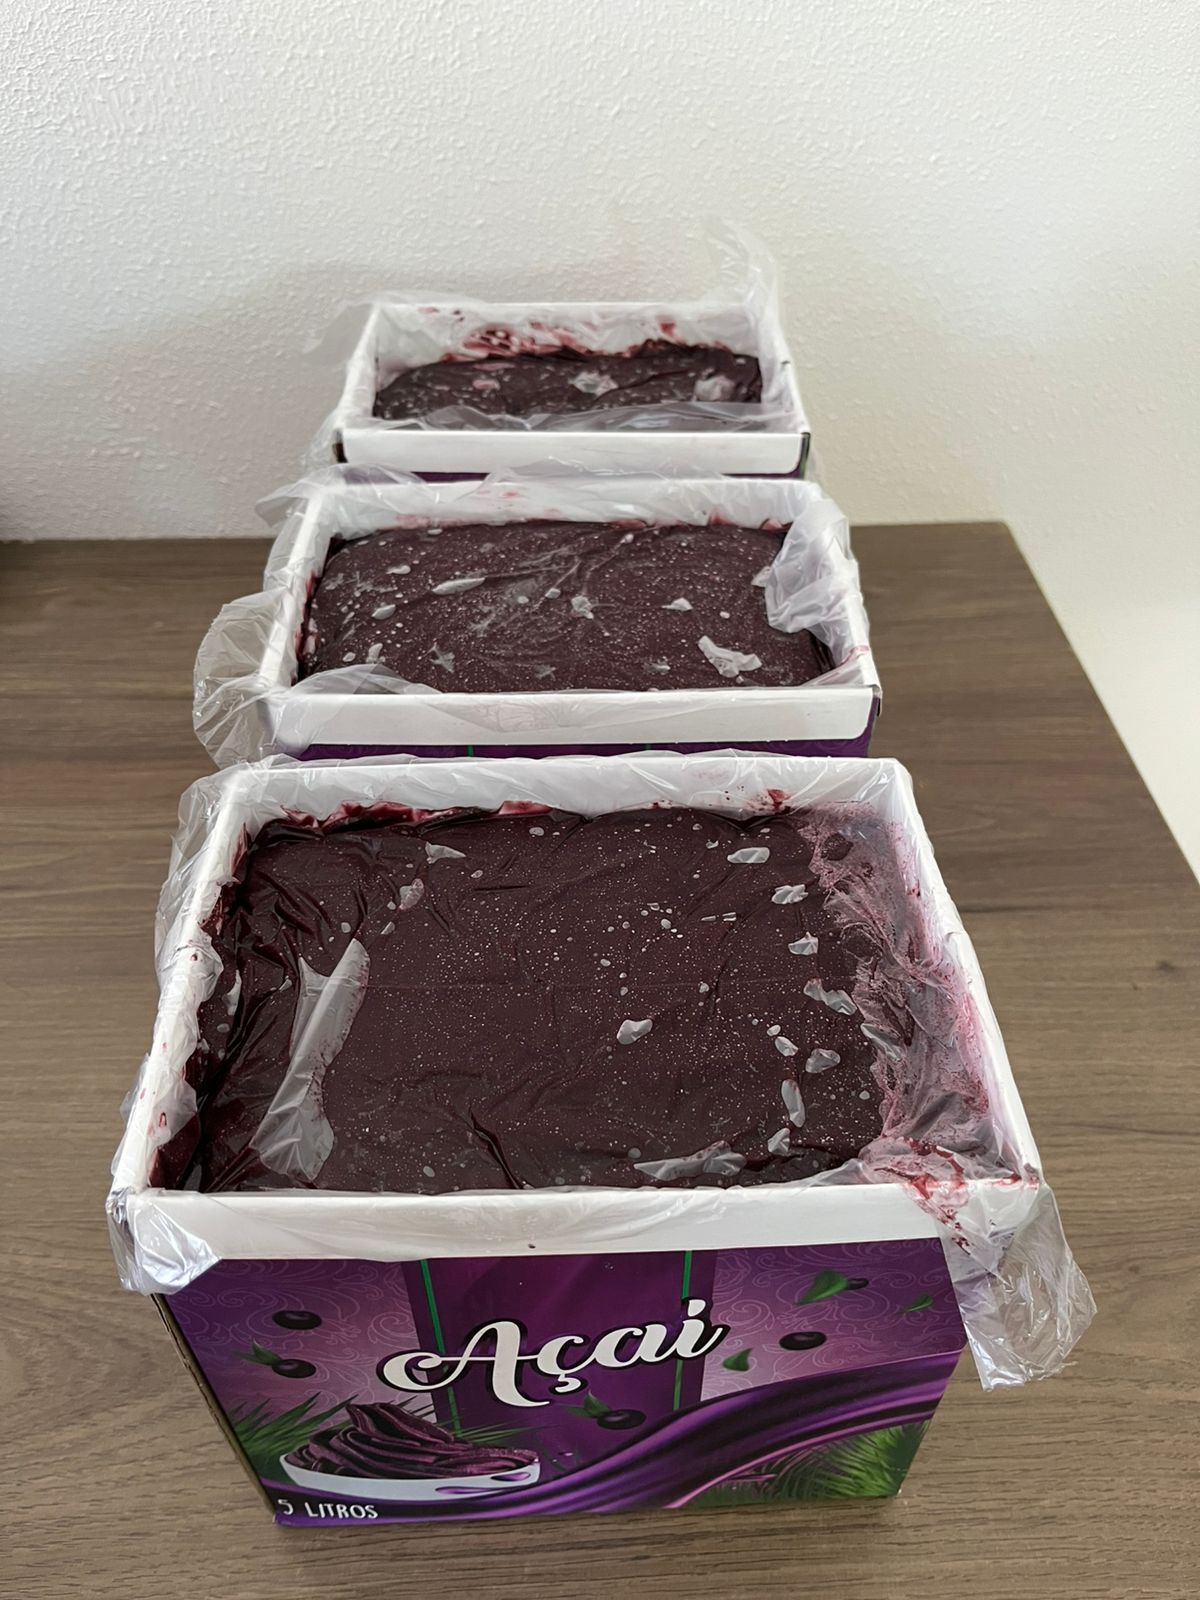
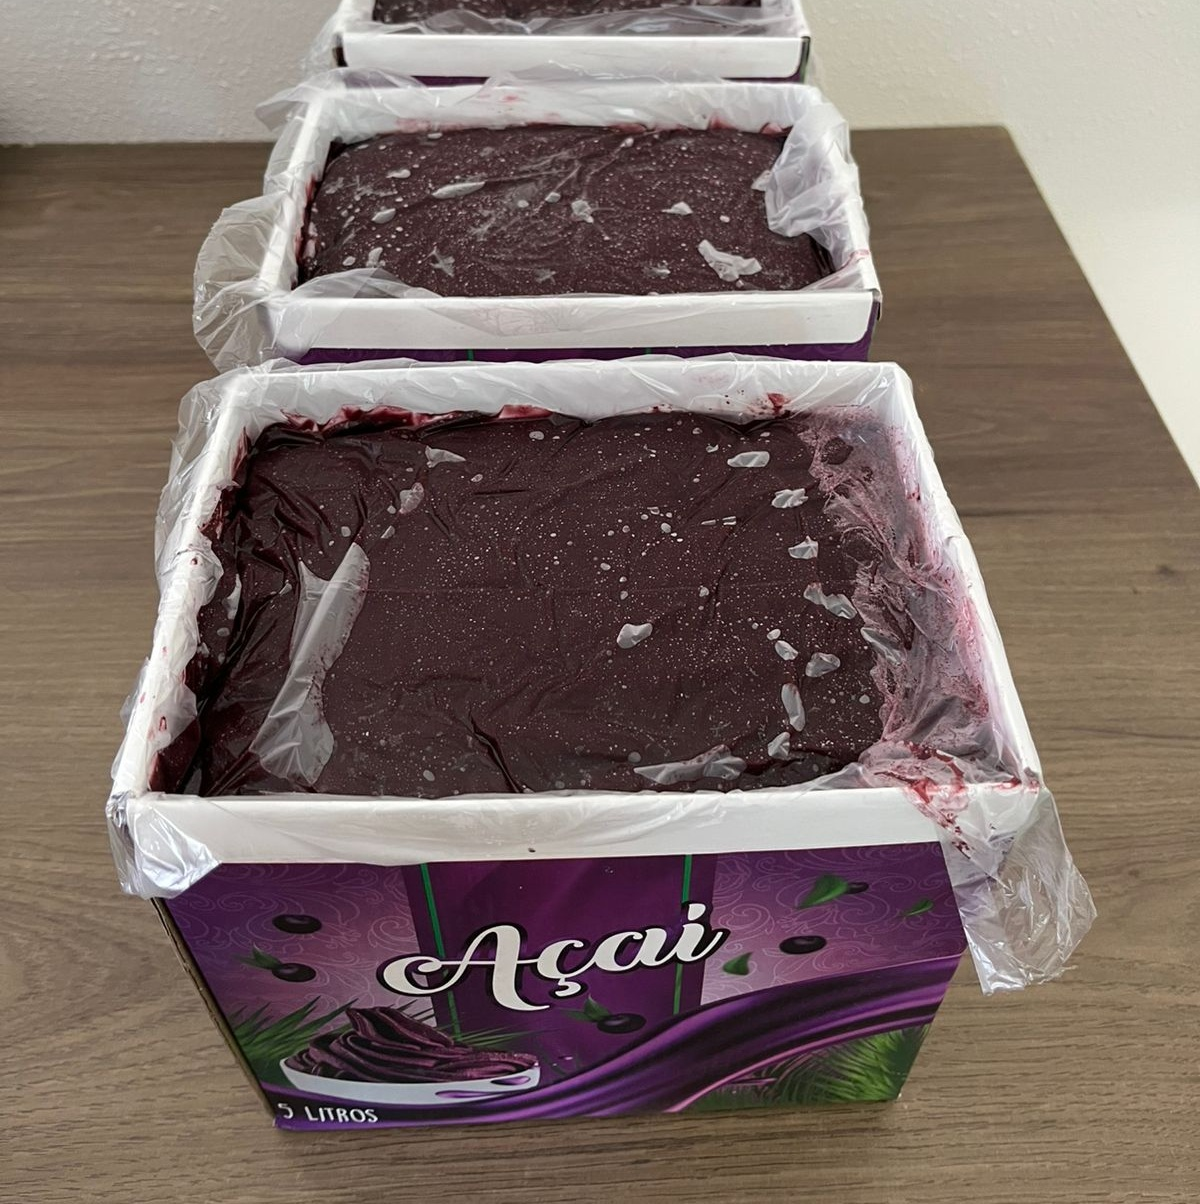
feat: atualizar imagens e legendas na configuração do site

diff --git a/src/components/Proof/OperationalProof.tsx b/src/components/Proof/OperationalProof.tsx
@@ -1,136 +1,175 @@
-"use client"
+"use client";
 
-import React, { useEffect, useState } from 'react'
-import Box from '@mui/material/Box'
-import Container from '@mui/material/Container'
-import Typography from '@mui/material/Typography'
-import Grid from '@mui/material/Grid'
-import Dialog from '@mui/material/Dialog'
-import DialogContent from '@mui/material/DialogContent'
-import IconButton from '@mui/material/IconButton'
-import Button from '@mui/material/Button'
-import Skeleton from '@mui/material/Skeleton'
-import Image from 'next/image'
-import { siteConfig } from '@/config/siteConfig'
+import React, { useEffect, useState } from "react";
+import Box from "@mui/material/Box";
+import Container from "@mui/material/Container";
+import Typography from "@mui/material/Typography";
+import Grid from "@mui/material/Grid";
+import Dialog from "@mui/material/Dialog";
+import DialogContent from "@mui/material/DialogContent";
+import IconButton from "@mui/material/IconButton";
+import Button from "@mui/material/Button";
+import Skeleton from "@mui/material/Skeleton";
+import Image from "next/image";
+import { siteConfig } from "@/config/siteConfig";
 
 export function OperationalProof() {
-  const images = siteConfig.proof?.images ?? []
-  const captions = siteConfig.proof?.captions ?? []
-  const metrics = siteConfig.proof?.metrics ?? []
+    const images = siteConfig.proof?.images ?? [];
+    const captions = siteConfig.proof?.captions ?? [];
+    const metrics = siteConfig.proof?.metrics ?? [];
 
-  const [open, setOpen] = useState(false)
-  const [index, setIndex] = useState(0)
-  const [loaded, setLoaded] = useState(false)
+    const [open, setOpen] = useState(false);
+    const [index, setIndex] = useState(0);
+    const [loaded, setLoaded] = useState(false);
 
-  function openAt(i: number) {
-    setIndex(i)
-    setLoaded(false)
-    setOpen(true)
-  }
-
-  function prev() {
-    setLoaded(false)
-    setIndex((i) => (i - 1 + images.length) % images.length)
-  }
-
-  function next() {
-    setLoaded(false)
-    setIndex((i) => (i + 1) % images.length)
-  }
-
-  useEffect(() => {
-    if (!open) return
-    function onKey(e: KeyboardEvent) {
-      if (e.key === 'Escape') setOpen(false)
-      if (e.key === 'ArrowLeft') prev()
-      if (e.key === 'ArrowRight') next()
+    function openAt(i: number) {
+        setIndex(i);
+        setLoaded(false);
+        setOpen(true);
     }
-    window.addEventListener('keydown', onKey)
-    return () => window.removeEventListener('keydown', onKey)
-  }, [open, images.length])
 
-  return (
-    <Box id="prova-operacional" sx={{ py: { xs: 6, md: 10 }, background: siteConfig.colors.surface }}>
-      <Container maxWidth="lg">
-        <Box sx={{ textAlign: 'center', mb: 3 }}>
-          <Typography variant="overline" sx={{ color: siteConfig.colors.primary, fontWeight: 700, letterSpacing: '0.08em' }}>
-            {siteConfig.proof?.overline}
-          </Typography>
+    function prev() {
+        setLoaded(false);
+        setIndex((i) => (i - 1 + images.length) % images.length);
+    }
 
-          <Typography variant="h3" sx={{ color: siteConfig.colors.text, mt: 1, mb: 1 }}>
-            {siteConfig.proof?.title}
-          </Typography>
+    function next() {
+        setLoaded(false);
+        setIndex((i) => (i + 1) % images.length);
+    }
 
-          <Typography variant="body1" sx={{ color: siteConfig.colors.text, opacity: 0.8 }}>
-            {siteConfig.proof?.subtitle}
-          </Typography>
+    useEffect(() => {
+        if (!open) return;
+        function onKey(e: KeyboardEvent) {
+            if (e.key === "Escape") setOpen(false);
+            if (e.key === "ArrowLeft") prev();
+            if (e.key === "ArrowRight") next();
+        }
+        window.addEventListener("keydown", onKey);
+        return () => window.removeEventListener("keydown", onKey);
+    }, [open, images.length]);
+
+    return (
+        <Box id="prova-operacional" sx={{ py: { xs: 6, md: 10 }, background: siteConfig.colors.surface }}>
+            <Container maxWidth="lg">
+                <Box sx={{ textAlign: "center", mb: 3 }}>
+                    <Typography variant="overline" sx={{ color: siteConfig.colors.primary, fontWeight: 700, letterSpacing: "0.08em" }}>
+                        {siteConfig.proof?.overline}
+                    </Typography>
+
+                    <Typography variant="h3" sx={{ color: siteConfig.colors.text, mt: 1, mb: 1 }}>
+                        {siteConfig.proof?.title}
+                    </Typography>
+
+                    <Typography variant="body1" sx={{ color: siteConfig.colors.text, opacity: 0.8 }}>
+                        {siteConfig.proof?.subtitle}
+                    </Typography>
+                </Box>
+
+                <Grid container spacing={2} sx={{ mb: 3 }} width="100%">
+                    {images.map((src, i) => (
+                        <Grid key={src} size={{ xs: 6, sm: 4, md: 4 }} width="100%">
+                            <Box
+                                onClick={() => openAt(i)}
+                                sx={{
+                                    cursor: "pointer",
+                                    position: "relative",
+                                    width: "100%",
+                                    borderRadius: 1,
+                                    overflow: "hidden",
+                                    border: `1px solid rgba(0,0,0,0.06)`,
+                                    aspectRatio: "4 / 3"
+                                }}
+                            >
+                                <Image
+                                    src={src}
+                                    alt={captions[i] ?? `Prova ${i + 1}`}
+                                    fill
+                                    sizes="(max-width:600px)50vw,33vw"
+                                    loading="lazy"
+                                    style={{ objectFit: "cover", aspectRatio: "4 / 3" }}                                    
+                                />
+                                {captions[i] && (
+                                    <Box
+                                        sx={{
+                                            position: "absolute",
+                                            left: 0,
+                                            right: 0,
+                                            bottom: 0,
+                                            p: "6px 8px",
+                                            background: "rgba(0,0,0,0.45)",
+                                            color: "#fff",
+                                            fontSize: "0.75rem",
+                                        }}
+                                    >
+                                        {captions[i]}
+                                    </Box>
+                                )}
+                            </Box>
+                            <Grid className="metric-index" size={{ xs: 12 }} sx={{ mt: 3 }}>
+                                <Box sx={{ textAlign: "center" }}>
+                                    <Typography variant="h4" sx={{ color: siteConfig.colors.primary, fontWeight: 800 }}>
+                                        {metrics[i]?.value}
+                                    </Typography>
+                                    <Typography variant="body2" sx={{ color: siteConfig.colors.text, opacity: 0.85 }}>
+                                        {metrics[i]?.label}
+                                    </Typography>
+                                </Box>
+                            </Grid>
+                        </Grid>
+                    ))}
+                </Grid>
+
+                <Box sx={{ textAlign: "center", mt: 2 }}>
+                    <Button variant="outlined" href={siteConfig.nav.catalogoHref} sx={{ textTransform: "none" }}>
+                        {siteConfig.hero.ctaSecondaryText ?? "Ver catálogo"}
+                    </Button>
+                </Box>
+            </Container>
+
+            <Dialog open={open} onClose={() => setOpen(false)} maxWidth="lg" fullWidth>
+                <DialogContent sx={{ position: "relative", p: 0, background: "#000" }}>
+                    <Box sx={{ position: "relative", width: "100%", height: { xs: "60vh", md: "80vh" }, bgcolor: "#000" }}>
+                        {!loaded && <Skeleton variant="rectangular" sx={{ width: "100%", height: "100%" }} />}
+                        {images[index] && (
+                            <Image
+                                src={images[index]}
+                                alt={captions[index] ?? `Prova ${index + 1}`}
+                                fill
+                                sizes="100vw"
+                                onLoadingComplete={() => setLoaded(true)}
+                                style={{ objectFit: "contain" }}
+                            />
+                        )}
+                    </Box>
+
+                    {captions[index] && (
+                        <Box sx={{ p: 2, background: "#000", borderTop: "1px solid rgba(255,255,255,0.06)" }}>
+                            <Typography variant="body2" sx={{ color: "#fff", opacity: 0.92, textAlign: "center" }}>
+                                {captions[index]}
+                            </Typography>
+                        </Box>
+                    )}
+
+                    <IconButton
+                        aria-label="previous"
+                        onClick={prev}
+                        sx={{ position: "absolute", left: 8, top: "50%", transform: "translateY(-50%)", color: "#fff" }}
+                    >
+                        ‹
+                    </IconButton>
+                    <IconButton
+                        aria-label="next"
+                        onClick={next}
+                        sx={{ position: "absolute", right: 8, top: "50%", transform: "translateY(-50%)", color: "#fff" }}
+                    >
+                        ›
+                    </IconButton>
+                    <IconButton aria-label="close" onClick={() => setOpen(false)} sx={{ position: "absolute", right: 8, top: 8, color: "#fff" }}>
+                        ✕
+                    </IconButton>
+                </DialogContent>
+            </Dialog>
         </Box>
-
-        <Grid container spacing={2} sx={{ mb: 3 }}>
-          {images.map((src, i) => (
-            <Grid key={src} size={{ xs: 6, sm: 4, md: 3 }}>
-              <Box onClick={() => openAt(i)} sx={{ cursor: 'pointer', position: 'relative', width: '100%', height: { xs: 140, sm: 160, md: 180 }, borderRadius: 1, overflow: 'hidden', border: `1px solid rgba(0,0,0,0.06)` }}>
-                <Image src={src} alt={captions[i] ?? `Prova ${i + 1}`} fill sizes="(max-width:600px)50vw,33vw" loading="lazy" style={{ objectFit: 'cover' }} />
-                {captions[i] && (
-                  <Box sx={{ position: 'absolute', left: 0, right: 0, bottom: 0, p: '6px 8px', background: 'rgba(0,0,0,0.45)', color: '#fff', fontSize: '0.75rem' }}>
-                    {captions[i]}
-                  </Box>
-                )}
-              </Box>
-            </Grid>
-          ))}
-        </Grid>
-
-        <Grid container spacing={2} sx={{ mb: 2 }}>
-          {metrics.map((m, idx) => (
-            <Grid key={idx} size={{ xs: 12, sm: 4 }}>
-              <Box sx={{ textAlign: 'center' }}>
-                <Typography variant="h4" sx={{ color: siteConfig.colors.primary, fontWeight: 800 }}>
-                  {m.value}
-                </Typography>
-                <Typography variant="body2" sx={{ color: siteConfig.colors.text, opacity: 0.85 }}>
-                  {m.label}
-                </Typography>
-              </Box>
-            </Grid>
-          ))}
-        </Grid>
-
-        <Box sx={{ textAlign: 'center', mt: 2 }}>
-          <Button variant="outlined" href={siteConfig.nav.catalogoHref} sx={{ textTransform: 'none' }}>
-            {siteConfig.hero.ctaSecondaryText ?? 'Ver catálogo'}
-          </Button>
-        </Box>
-      </Container>
-
-      <Dialog open={open} onClose={() => setOpen(false)} maxWidth="lg" fullWidth>
-        <DialogContent sx={{ position: 'relative', p: 0, background: '#000' }}>
-          <Box sx={{ position: 'relative', width: '100%', height: { xs: '60vh', md: '80vh' }, bgcolor: '#000' }}>
-            {!loaded && <Skeleton variant="rectangular" sx={{ width: '100%', height: '100%' }} />}
-            {images[index] && (
-              <Image src={images[index]} alt={captions[index] ?? `Prova ${index + 1}`} fill sizes="100vw" onLoadingComplete={() => setLoaded(true)} style={{ objectFit: 'contain' }} />
-            )}
-          </Box>
-
-          {captions[index] && (
-            <Box sx={{ p: 2, background: '#000', borderTop: '1px solid rgba(255,255,255,0.06)' }}>
-              <Typography variant="body2" sx={{ color: '#fff', opacity: 0.92, textAlign: 'center' }}>
-                {captions[index]}
-              </Typography>
-            </Box>
-          )}
-
-          <IconButton aria-label="previous" onClick={prev} sx={{ position: 'absolute', left: 8, top: '50%', transform: 'translateY(-50%)', color: '#fff' }}>
-            ‹
-          </IconButton>
-          <IconButton aria-label="next" onClick={next} sx={{ position: 'absolute', right: 8, top: '50%', transform: 'translateY(-50%)', color: '#fff' }}>
-            ›
-          </IconButton>
-          <IconButton aria-label="close" onClick={() => setOpen(false)} sx={{ position: 'absolute', right: 8, top: 8, color: '#fff' }}>
-            ✕
-          </IconButton>
-        </DialogContent>
-      </Dialog>
-    </Box>
-  )
+    );
 }

diff --git a/src/config/siteConfig.ts b/src/config/siteConfig.ts
@@ -115,8 +115,8 @@ export const siteConfig = {
         overline: "Nossa Estrutura",
         title: "Operação preparada para atender sua demanda",
         subtitle: "Estoque organizado e entrega rápida para açaiterias e restaurantes de Porto Alegre e região.",
-        images: ["/assets/reform/prova-estoque-1.jpg", "/assets/reform/prova-estoque-2.jpg", "/assets/reform/prova-estoque-3.jpg"],
-        captions: ["Estoque refrigerado", "Produtos prontos para entrega", "Estrutura de abastecimento"],
+        images: ["/assets/reform/freezer-sorvetes.jpeg", "/assets/reform/acai-5l.jpeg", "/assets/reform/sorvetes-1l.jpeg"],
+        captions: ["", "", ""],
         metrics: [
             { value: "Entrega rápida", label: "Porto Alegre e região" },
             { value: "Estoque ativo", label: "Reposição contínua" },

diff --git a/src/components/B2B/B2BSection.tsx b/src/components/B2B/B2BSection.tsx
@@ -46,7 +46,7 @@ export function B2BSection() {
                   background: 'transparent',
                 }}
               >
-                <Box sx={{ fontSize: 32 }}>{s.emoji}</Box>
+                <Box sx={{ fontSize: 76 }}>{s.emoji}</Box>
                 <Typography sx={{ mt: 1, fontWeight: 600 }}>{s.label}</Typography>
               </Paper>
             </Grid>
